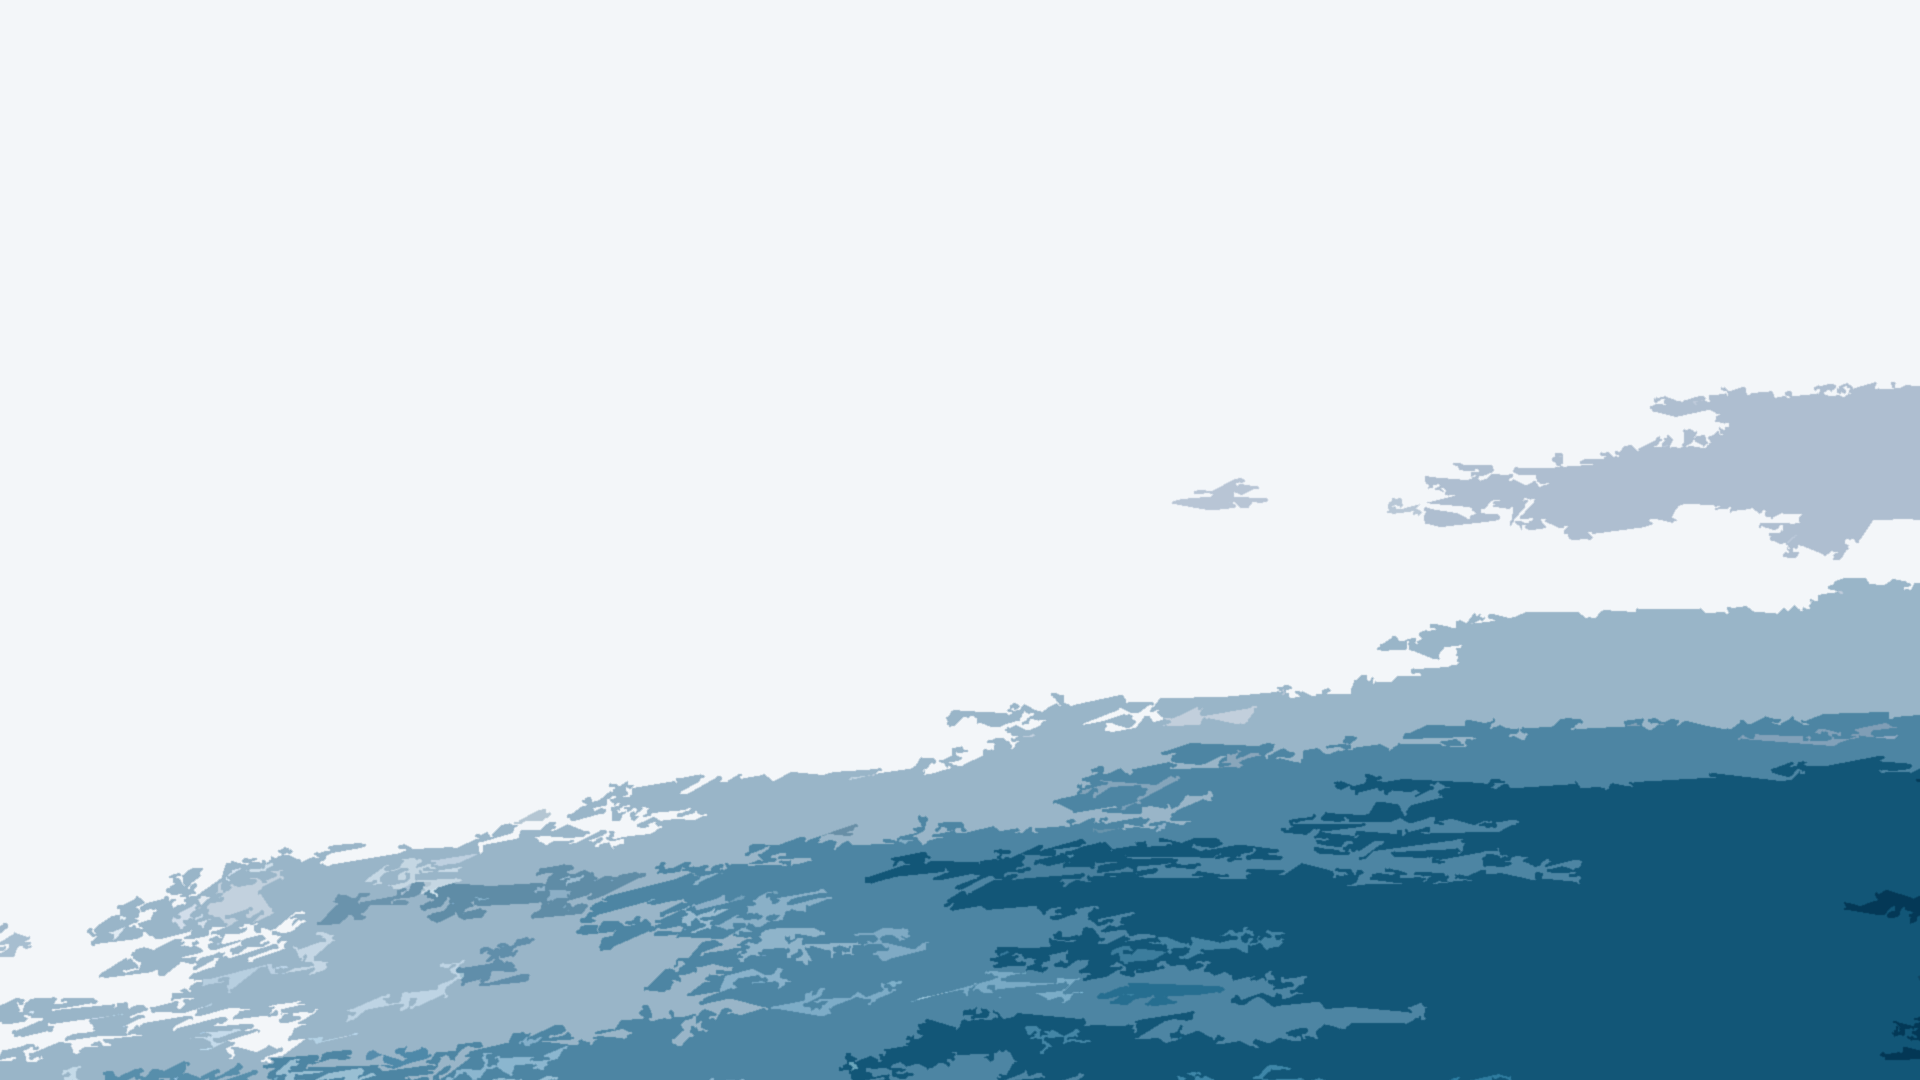
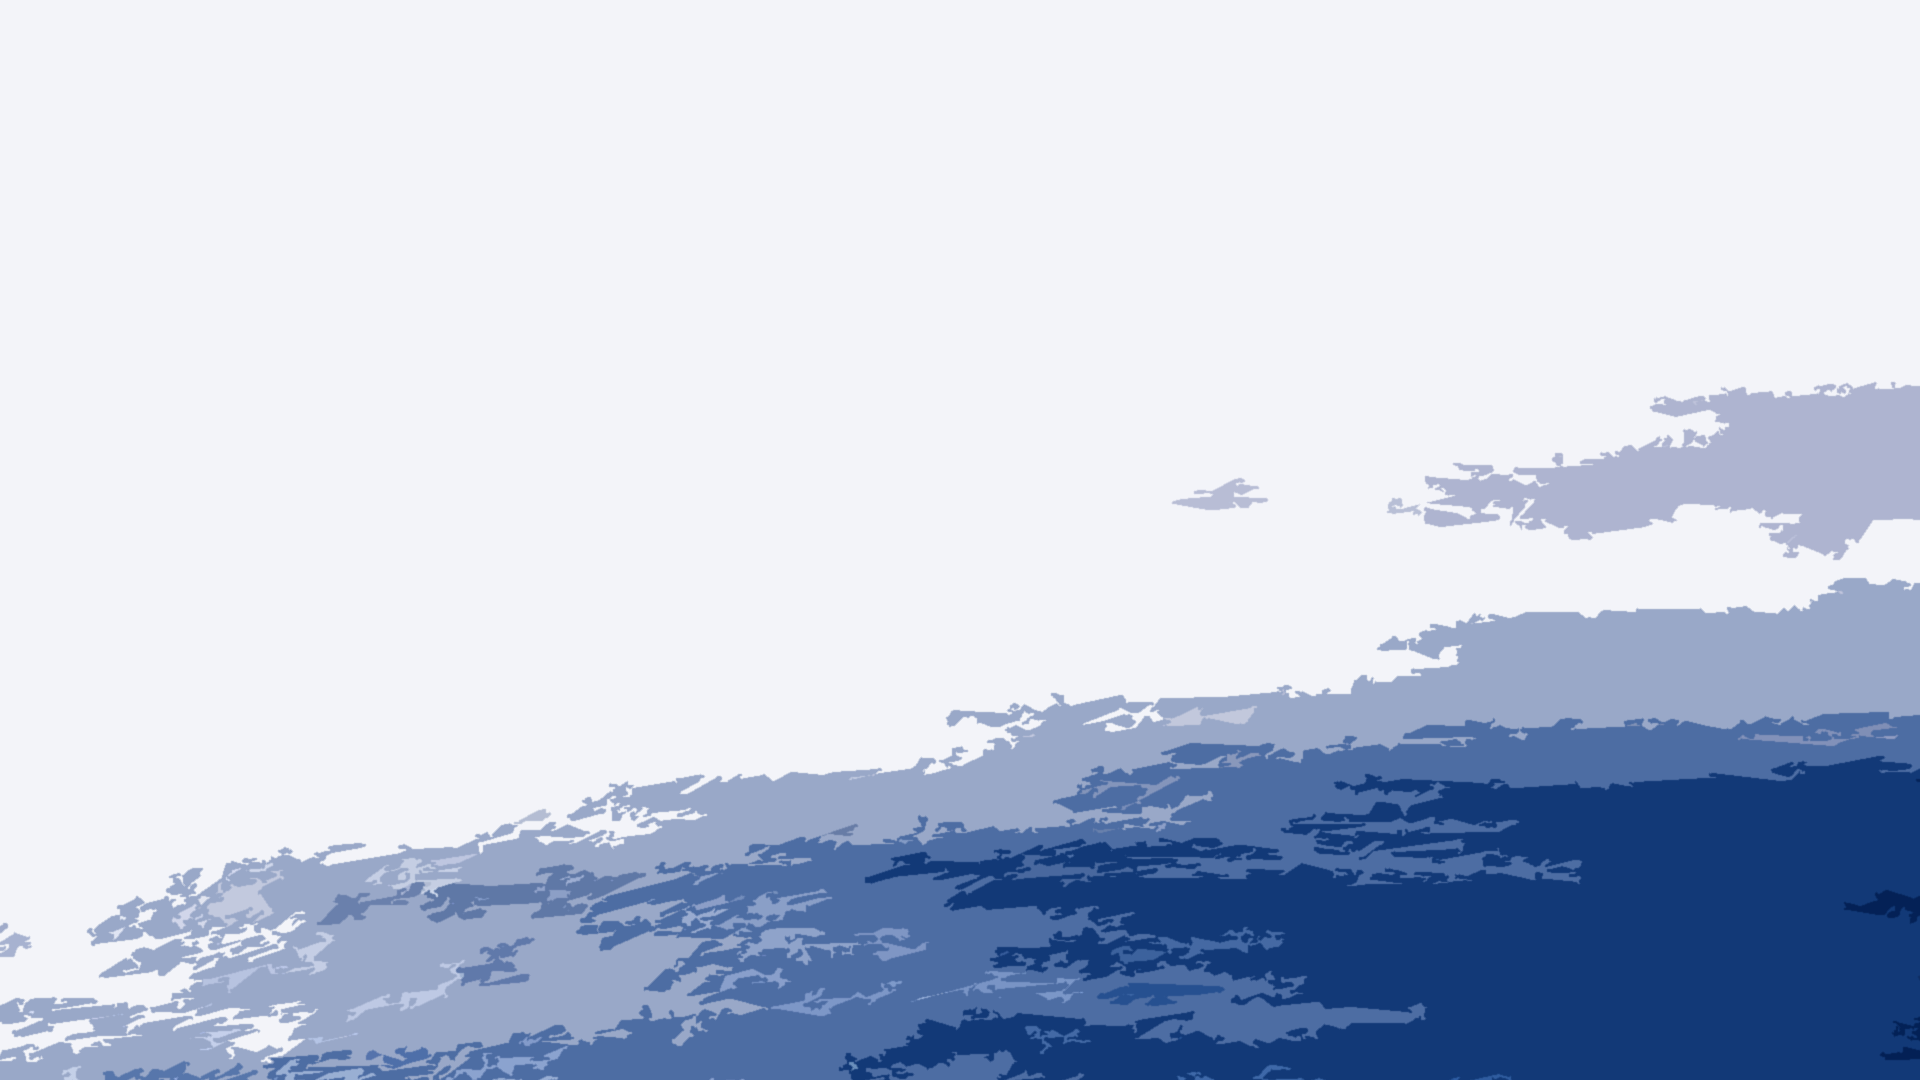
Minor color correction

Changed region(s): [[0.4375, 0.7028, 1.0, 1.0], [0.1875, 0.9778, 0.2188, 1.0]]

diff --git a/css/custom.css b/css/custom.css
@@ -116,7 +116,7 @@ Home page - Jumbotron
   right: 50%; }
 
 .wave-line {
-  background: #5284a1;
+  background: #516ba1;
   width: 20px;
   float: left;
   animation: wave-anim 5s infinite ease-in-out alternate;
@@ -124,7 +124,7 @@ Home page - Jumbotron
   box-sizing: content-box;
   -webkit-box-sizing: content-box;
   -moz-box-sizing: content-box;
-  border: 1px solid #5284a1;
+  border: 1px solid #516ba1;
   -webkit-border-radius: 20px 20px 0 0;
   border-radius: 20px 20px 0 0; }
 
@@ -281,8 +281,8 @@ Home page - Jumbotron
 #underwater {
   position: absolute;
   animation: ship-water-anim 2s ease 2s infinite alternate;
-  stroke: #5284a1;
-  fill: #5284a1; }
+  stroke: #516ba1;
+  fill: #516ba1; }
 
 #left_x5F_hull_x5F_whitespace,
 #right_x5F_hull_x5F_whitespace {
@@ -653,7 +653,7 @@ Fixed contact sidebar
 .footer-container .contact-text {
   font-size: 12px;
   font-weight: bold;
-  color: #bbb;
+  color: white;
   text-transform: uppercase;
   letter-spacing: .05em;
   margin: auto 0 0 0;

diff --git a/css/custom.scss b/css/custom.scss
@@ -148,7 +148,7 @@ Home page - Jumbotron
 }
 
 .wave-line {
-  background: #5284a1;
+  background: #516ba1;
   width: 20px;
   
   float: left;
@@ -160,7 +160,7 @@ Home page - Jumbotron
   -webkit-box-sizing: content-box;
   -moz-box-sizing: content-box;
 
-  border: 1px solid #5284a1;
+  border: 1px solid #516ba1;
   -webkit-border-radius: 20px 20px 0 0;
   border-radius: 20px 20px 0 0;
   
@@ -213,8 +213,8 @@ Home page - Jumbotron
 #underwater {
   position: absolute;
   animation: ship-water-anim 2s ease 2s infinite alternate;
-  stroke: #5284a1;
-  fill: #5284a1;
+  stroke: #516ba1;
+  fill: #516ba1;
 }
 
 #left_x5F_hull_x5F_whitespace,
@@ -695,7 +695,7 @@ Fixed contact sidebar
 .footer-container .contact-text {
   font-size: 12px;
   font-weight: bold;
-  color: #bbb;
+  color: white;
   text-transform: uppercase;
   letter-spacing: .05em;
   margin: auto 0 0 0;
